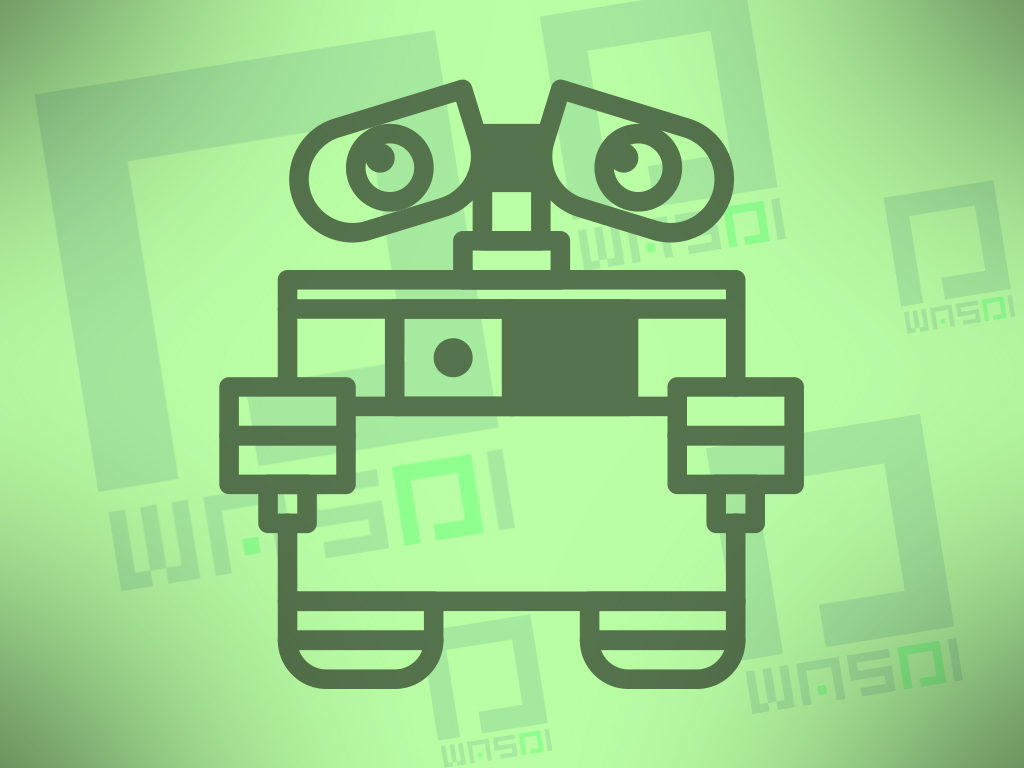
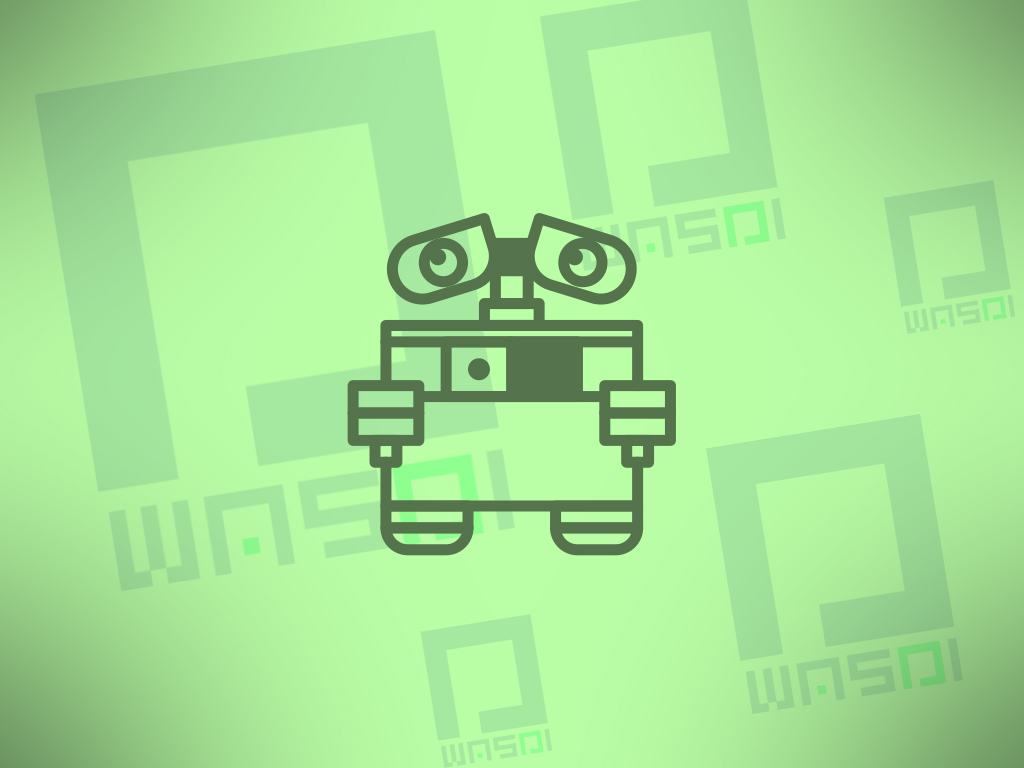
placeholder size and animation

Changed region(s): [[0.1875, 0.0938, 0.8125, 0.9062]]

diff --git a/client/app/css/_marketplace.scss b/client/app/css/_marketplace.scss
@@ -344,6 +344,12 @@ $lightgrey: #efefef;
             .featured-img .overlay {
                 width: 100%;
                 transition: width 0.3s ease;
+                img {
+                    opacity: 0;
+                    width: 100px;
+                    height: 100px;
+                    animation: fly 2s linear;
+                }
             }
         }
         .featured-img {
@@ -368,27 +374,33 @@ $lightgrey: #efefef;
                 justify-content: center;
                 align-items: center;
                 img {
-                    width: 100px;
-                    height: 100px;
-                    animation: fly 2s linear alternate infinite;
+                    opacity: 0;
                 }
+
 
                 @keyframes fly {
                     0% {
+                        opacity: 1;
                         transform-origin: center center;
                         transform: rotate(10deg) translate(22px, 10px) scale(0);
                     }
-                    33% {
+                    25% {
                        transform-origin: center center;
                         transform: rotate(-20deg) translate(-20px, 12px) scale(0.33);
                     }
-                    66% {
+                    50% {
                         transform-origin: center center;
                         transform: rotate(5deg) translate(-12px, -12px) scale(0.66) ;
                     }
-                    100% {
+                    75% {
                         transform-origin: center center;
                         transform: rotate(-30deg) translate(18px, -10px) scale(1);
+                        opacity: 1;
+                    }
+                    100% {
+                        transform-origin: center center;
+                        transform: rotate(-20deg) translate(12px, -5px) scale(1.5);
+                        opacity: 0;
                     }
                 }
             }
